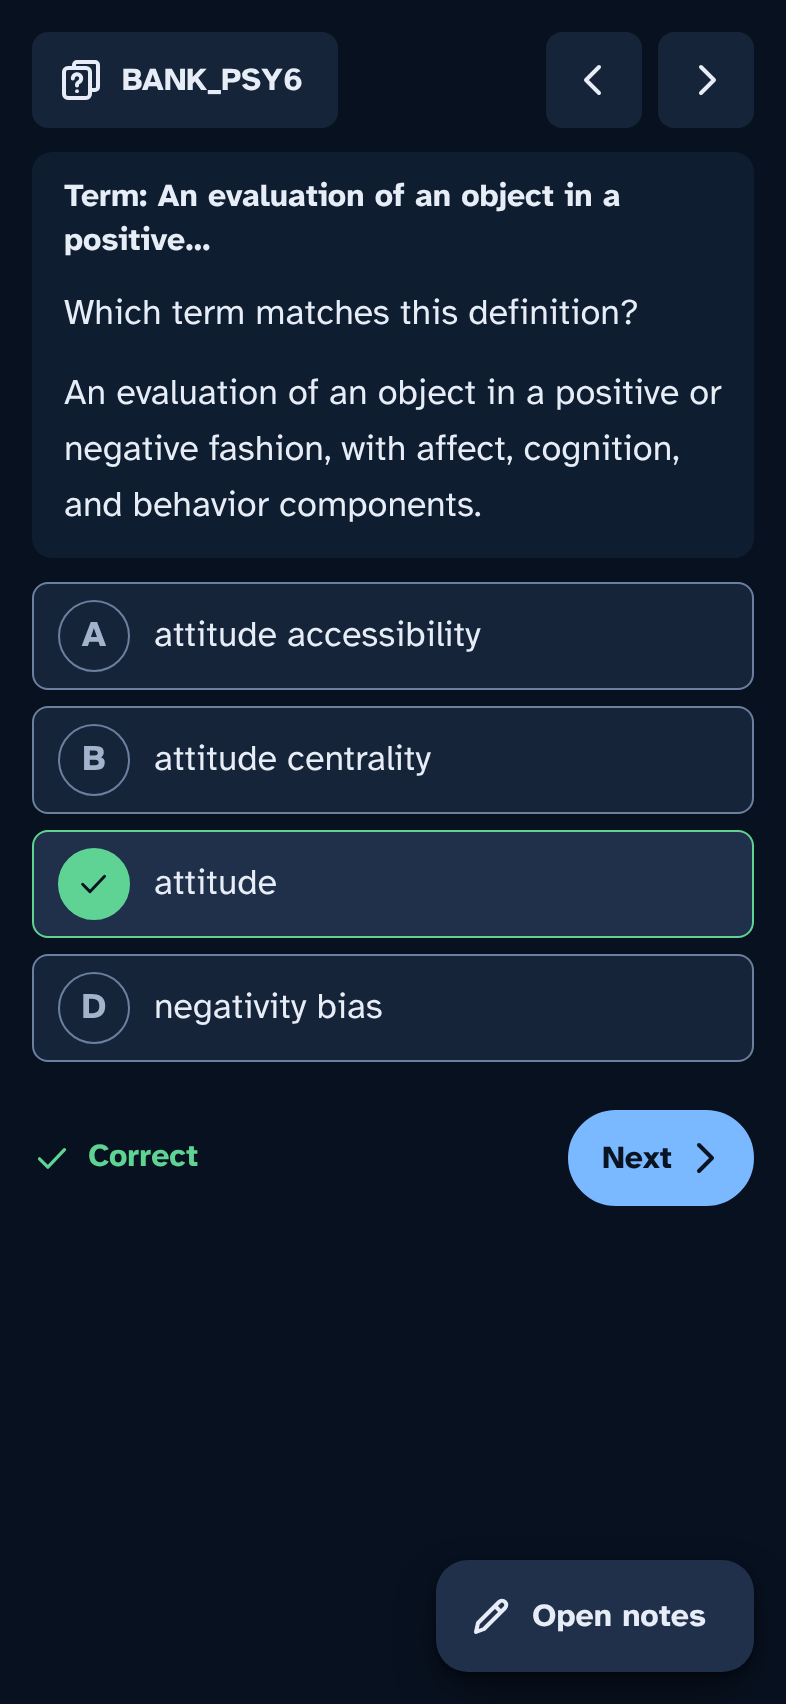
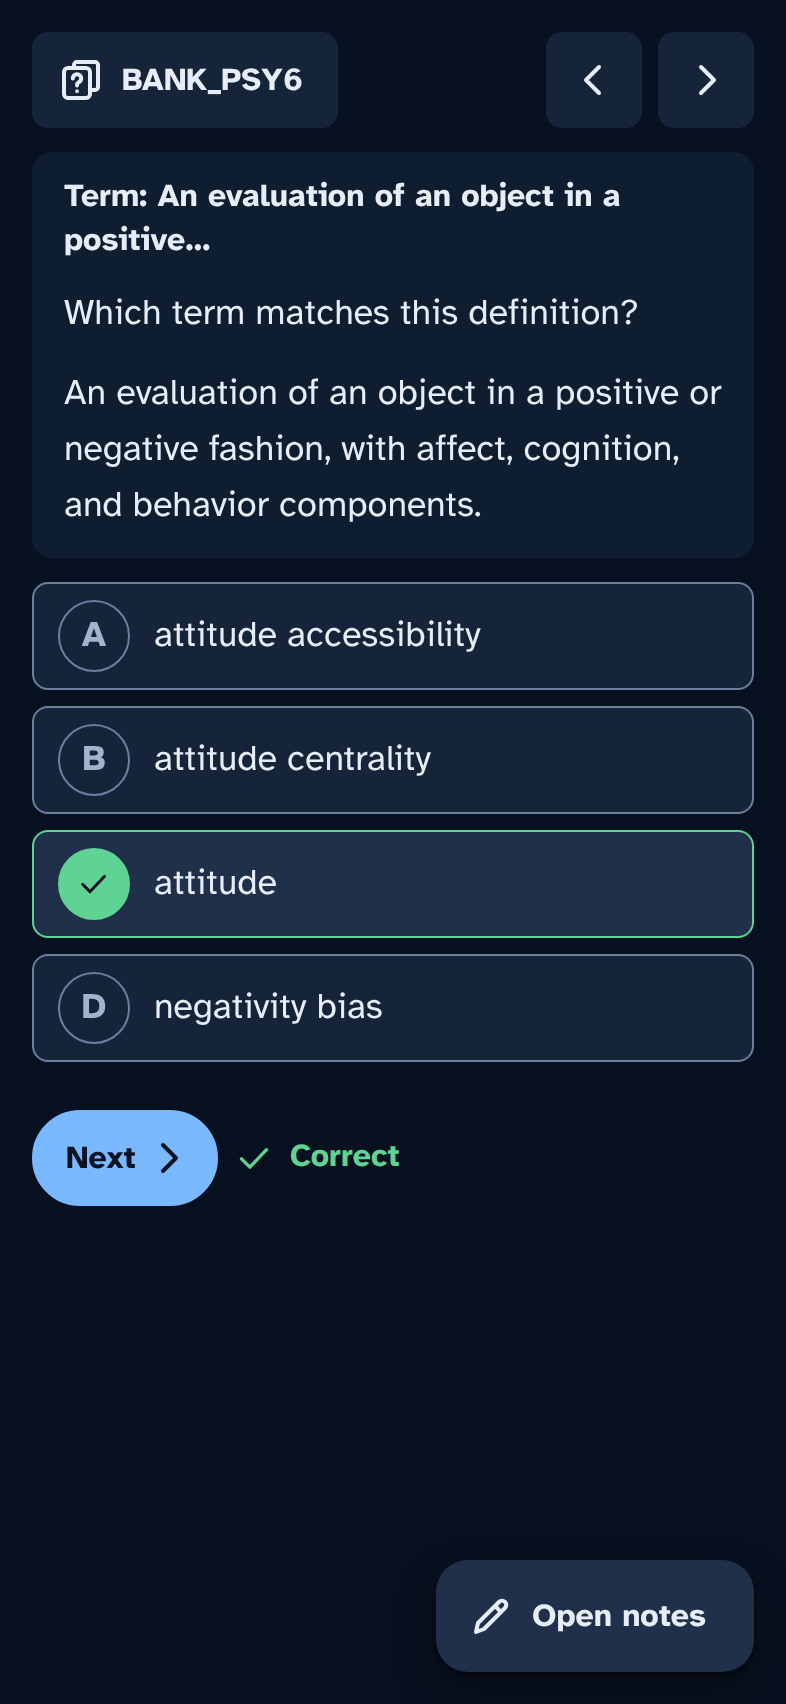
T17a: next-cue variants mock (glow / pill / sheet), shots + README, pick V2
Claude-Session: https://claude.ai/code/session_01C52e3ie2xV6vBy5dnvBzSZ

Changed region(s): [[0.7023, 0.6532, 0.9771, 0.7154], [0.0305, 0.6532, 0.2748, 0.7154], [0.3664, 0.6532, 0.5191, 0.6843]]

diff --git a/try/next-cue-variants.html b/try/next-cue-variants.html
@@ -14,7 +14,7 @@
      motion at all (static ring / no slide), the cue never rests on the question or the choices (V3's sheet is in the flow: it
      takes room from the scroll area, it does not float over it).
        1. Glow: Next pulses once (one ring out, 1.1 s), then keeps a static --c1 ring until you leave. Reduced motion: the ring only.
-       2. Pill: a filled "Next" pill under the last choice, on the result row, right side (thumb). No motion.
+       2. Pill: a filled "Next" pill under the last choice, on the result row, left (the notes button owns the bottom right). No motion.
        3. Sheet: a docked bottom sheet "Correct · Next question" with one big button; X / Escape / swipe down puts it away.
      URL: ?v=1..3 picks a variant, &s=open|before|after (open = not answered yet, before = graded today, no cue; after = graded + cue),
      &r=ok|out (correct / out of tries), &peak=1 (V1: freeze the glow at its brightest, for a shot), &cluck=1 (out: a streaming Cluck
@@ -63,7 +63,8 @@ html.bare .phone { width: 100%; height: 100vh; height: 100dvh; margin: 0; border
   100% { box-shadow: inset 0 0 0 1px var(--c1), 0 0 0 12px rgb(122 184 255 / 0), 0 0 0 0 rgb(122 184 255 / 0); }
 }
 
-/* ---- 2. Pill: the result row under the choices; the verdict words left, a filled Next pill right (thumb side) ---- */
+/* ---- 2. Pill: the result row under the choices; a filled Next pill first (LEFT: on a 659pt Safari view the row sits at the notes
+   button's height, and that button owns the bottom right), then the verdict words ---- */
 .res2 { display: none; align-items: center; gap: var(--s2); margin-top: var(--s3); }
 .v2 .res2.on { display: flex; }
 .res2 .verdict { flex: 1; min-width: 0; font-size: var(--t-sm); }
@@ -121,8 +122,8 @@ html.bare .phone { width: 100%; height: 100vh; height: 100dvh; margin: 0; border
       </div>
     </div>
     <div class="fb" id="fb">
-      <div class="res2" id="res2"><p class="verdict" id="v2w"></p>
-        <button type="button" class="btn btn-go pill" id="pill" aria-label="Next question">Next<svg class="ico"><use href="#i-next"/></svg></button></div>
+      <div class="res2" id="res2"><button type="button" class="btn btn-go pill" id="pill" aria-label="Next question">Next<svg class="ico"><use href="#i-next"/></svg></button>
+        <p class="verdict" id="v2w"></p></div>
       <p class="verdict lock vlock" id="vlock" hidden><svg class="ico"><use href="#i-lock"/></svg><span>Out of tries for now. This one comes back around.</span></p>
       <div class="cluck" id="cluck" hidden><svg class="ico"><use href="#i-duck"/></svg><div><div class="md"><p id="clt"></p></div></div></div>
     </div>
@@ -140,7 +141,7 @@ html.bare .phone { width: 100%; height: 100vh; height: 100dvh; margin: 0; border
 <script>
 const V = {
   1: { n: "Glow", why: "Next in the top bar rings out once (1.1 s) after the pick's own pop ends, then keeps a static blue ring until you leave. Reduced motion: the ring only. Nothing new on the page." },
-  2: { n: "Pill", why: "A filled Next pill on the result row, right under the last choice, on the right (thumb side). It appears with the result, no motion. The bar's Next still works." },
+  2: { n: "Pill", why: "A filled Next pill on the result row, right under the last choice, on the left (the notes button owns the bottom right; on a 659pt Safari view they share a height). It appears with the result, no motion. The bar's Next still works." },
   3: { n: "Sheet", why: "A bottom sheet in the flow (the page gets shorter, nothing is covered): \"Correct\" + one big Next question button. X, Escape or a swipe down puts it away; Next stays in the bar." }
 };
 const ph = document.getElementById("phone"), qs = new URLSearchParams(location.search), $ = id => document.getElementById(id);

diff --git a/design/shots/next-cue-mock-2026-10-09/README.md b/design/shots/next-cue-mock-2026-10-09/README.md
@@ -1,0 +1,27 @@
+# T17a: Next cue mock (Oct 9)
+
+Tony: "next button should glow or otherwise animate, OR a dialog that lets me NEXT onto a question right away."
+Mock: `try/next-cue-variants.html` (`?v=1..3&s=open|before|after&r=ok|out[&peak=1][&cluck=1][&bare=1]`). It uses the real app.css, nav.css and icon sprite, laid out like the live phone (BANK_PSY6 bar, card, 4 rows, "Open notes" bottom right). No prod file changed.
+
+"Before" = how the live app looks today after a correct pick: there is no cue, and Next is a plain grey arrow in the top corner. That shot is the same for all three variants.
+
+| Variant | Pro | Con |
+|---|---|---|
+| V1 Glow: Next rings out once (1.1 s) after the pick's pop, then keeps a static --c1 ring | Adds nothing to the page. The one ring is the T2 blink. Under reduced motion you get the static ring only | It is still a 48px target in the top corner, the far reach on an iPhone. One pulse is easy to miss if you're looking at the rows |
+| V2 Pill: a filled "Next" pill on the result row, right under the last choice | It sits right where your eye and thumb already are, after the row you just tapped. No motion at all, so it's T2-safe and identical under reduced motion. Doesn't take room from the view | Adds one row under the choices. It sits LEFT because "Open notes" owns the bottom right, and on Safari's 659pt view they're at the same height (the right-side pill was under that button by 11px) |
+| V3 Sheet: docked bottom sheet "Correct" + one big "Next question" button, dismissible (X, Escape, swipe down) | The biggest, most obvious target, in the thumb zone | Takes ~150pt from the view: on Safari (659pt) row D is cut at the sheet's edge. It hides "Open notes" while it's up. It's one more thing to dismiss on every question, and its slide-up is a second blink after the pop |
+
+**Pick: V2 (the pill).** It answers "how do I move on" in the place the student is already looking and tapping. It adds no motion, so it can never fight the right pick's pop or Cluck's stream (T2), and it looks the same with reduced motion. It doesn't cover or cut anything, even on the 659pt Safari view. V1's static ring could ride along as a quiet second hint on the bar's Next if wanted (no pulse).
+
+## Checks (`checks.log`, from `shot-next-cue.mjs`)
+- One-blink: Playwright plays the real flow (tap a row) and samples the distinct animated elements every 20 ms for 4.5 s. The max is **1** in every variant: the right pick's pop (or the wrong pick's jolt) runs first, then the cue (glow / sheet rise). A streaming Cluck (`&cluck=1`) holds the cue until the stream ends. Under reduced motion the max is 0.
+- Covers: in every "after" state the cue doesn't overlap the question card or any visible choice row, and it's in view without scrolling. V2's pill is clear of "Open notes" in WebKit's 659pt view: the pill spans x 16–109 and the button starts at x 218.
+
+## Shots (Chromium 393x852 @2x; WebKitGTK ios-sim safari-expanded, visible 393x659 @3x)
+- V1: `v1-before-*`, `v1-after-*` (settled ring), `v1-peak-*` (the glow's brightest frame), `v1-after-rm-*` (reduced motion: static ring), `v1-out-after-chromium`
+- V2: `v2-before-*`, `v2-after-*`, `v2-out-after-*`, `v2-after-rm-chromium`
+- V3: `v3-before-*`, `v3-after-*`, `v3-out-after-*`, `v3-after-rm-chromium`
+
+`*` = both `-chromium-393x852.png` and `-webkit-393x852.png`.
+
+Rerun: `python3 serve.py <port>`, then `node shot-next-cue.mjs http://localhost:<port> .` (Chromium). WebKit: `ios-sim.py '<base>/try/next-cue-variants.html?bare=1&v=N&s=after' out.png --profile safari-expanded --fresh --wait 3000 [--rm]`.
